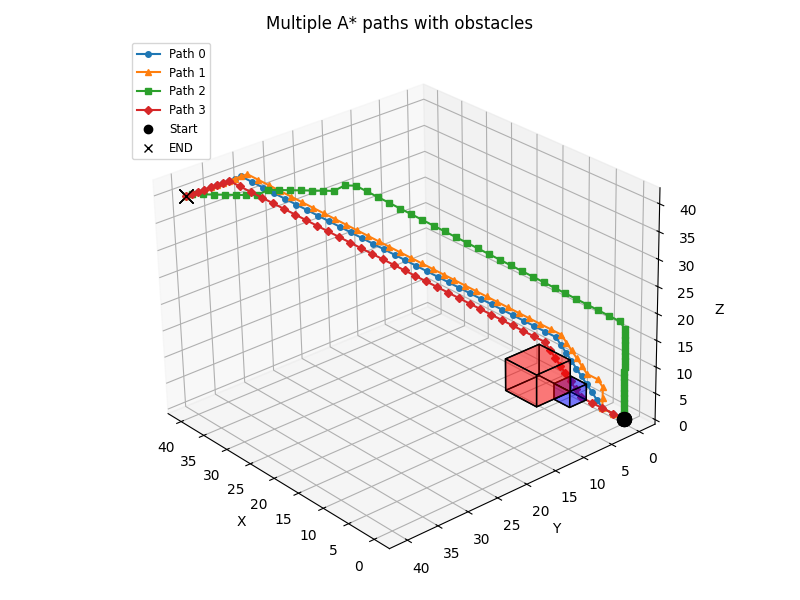
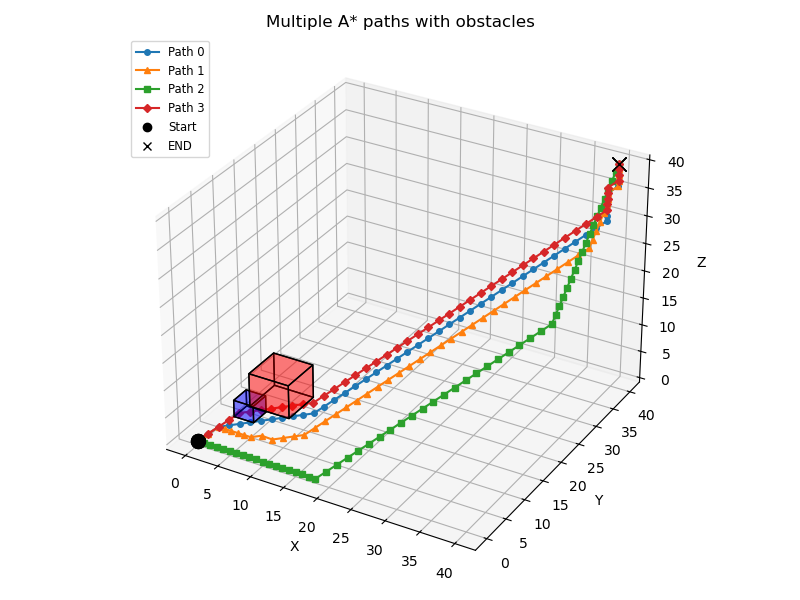
update performance

diff --git a/README.md b/README.md
@@ -102,11 +102,7 @@ A_STAR_CUDA/
 
 ## Performance
 ### Test on an NVIDIA RTX 4060:
-
-| Grid Size    |  Threads |         CPU A* (ms)         |     GPU A* (ms)    |
-|:------------:|:--------:|:---------------------------:|:------------------:|
-| 50×50×50     |    5     |             20              |     around 1500    |
-| 50×50×50     |   400    |         around 1500         |     around 1500    |
+![result](images/performance.png)
 
 ### Example Result
 Check more deails in **version_0.0.1** branch (examples/test.ipynb).
